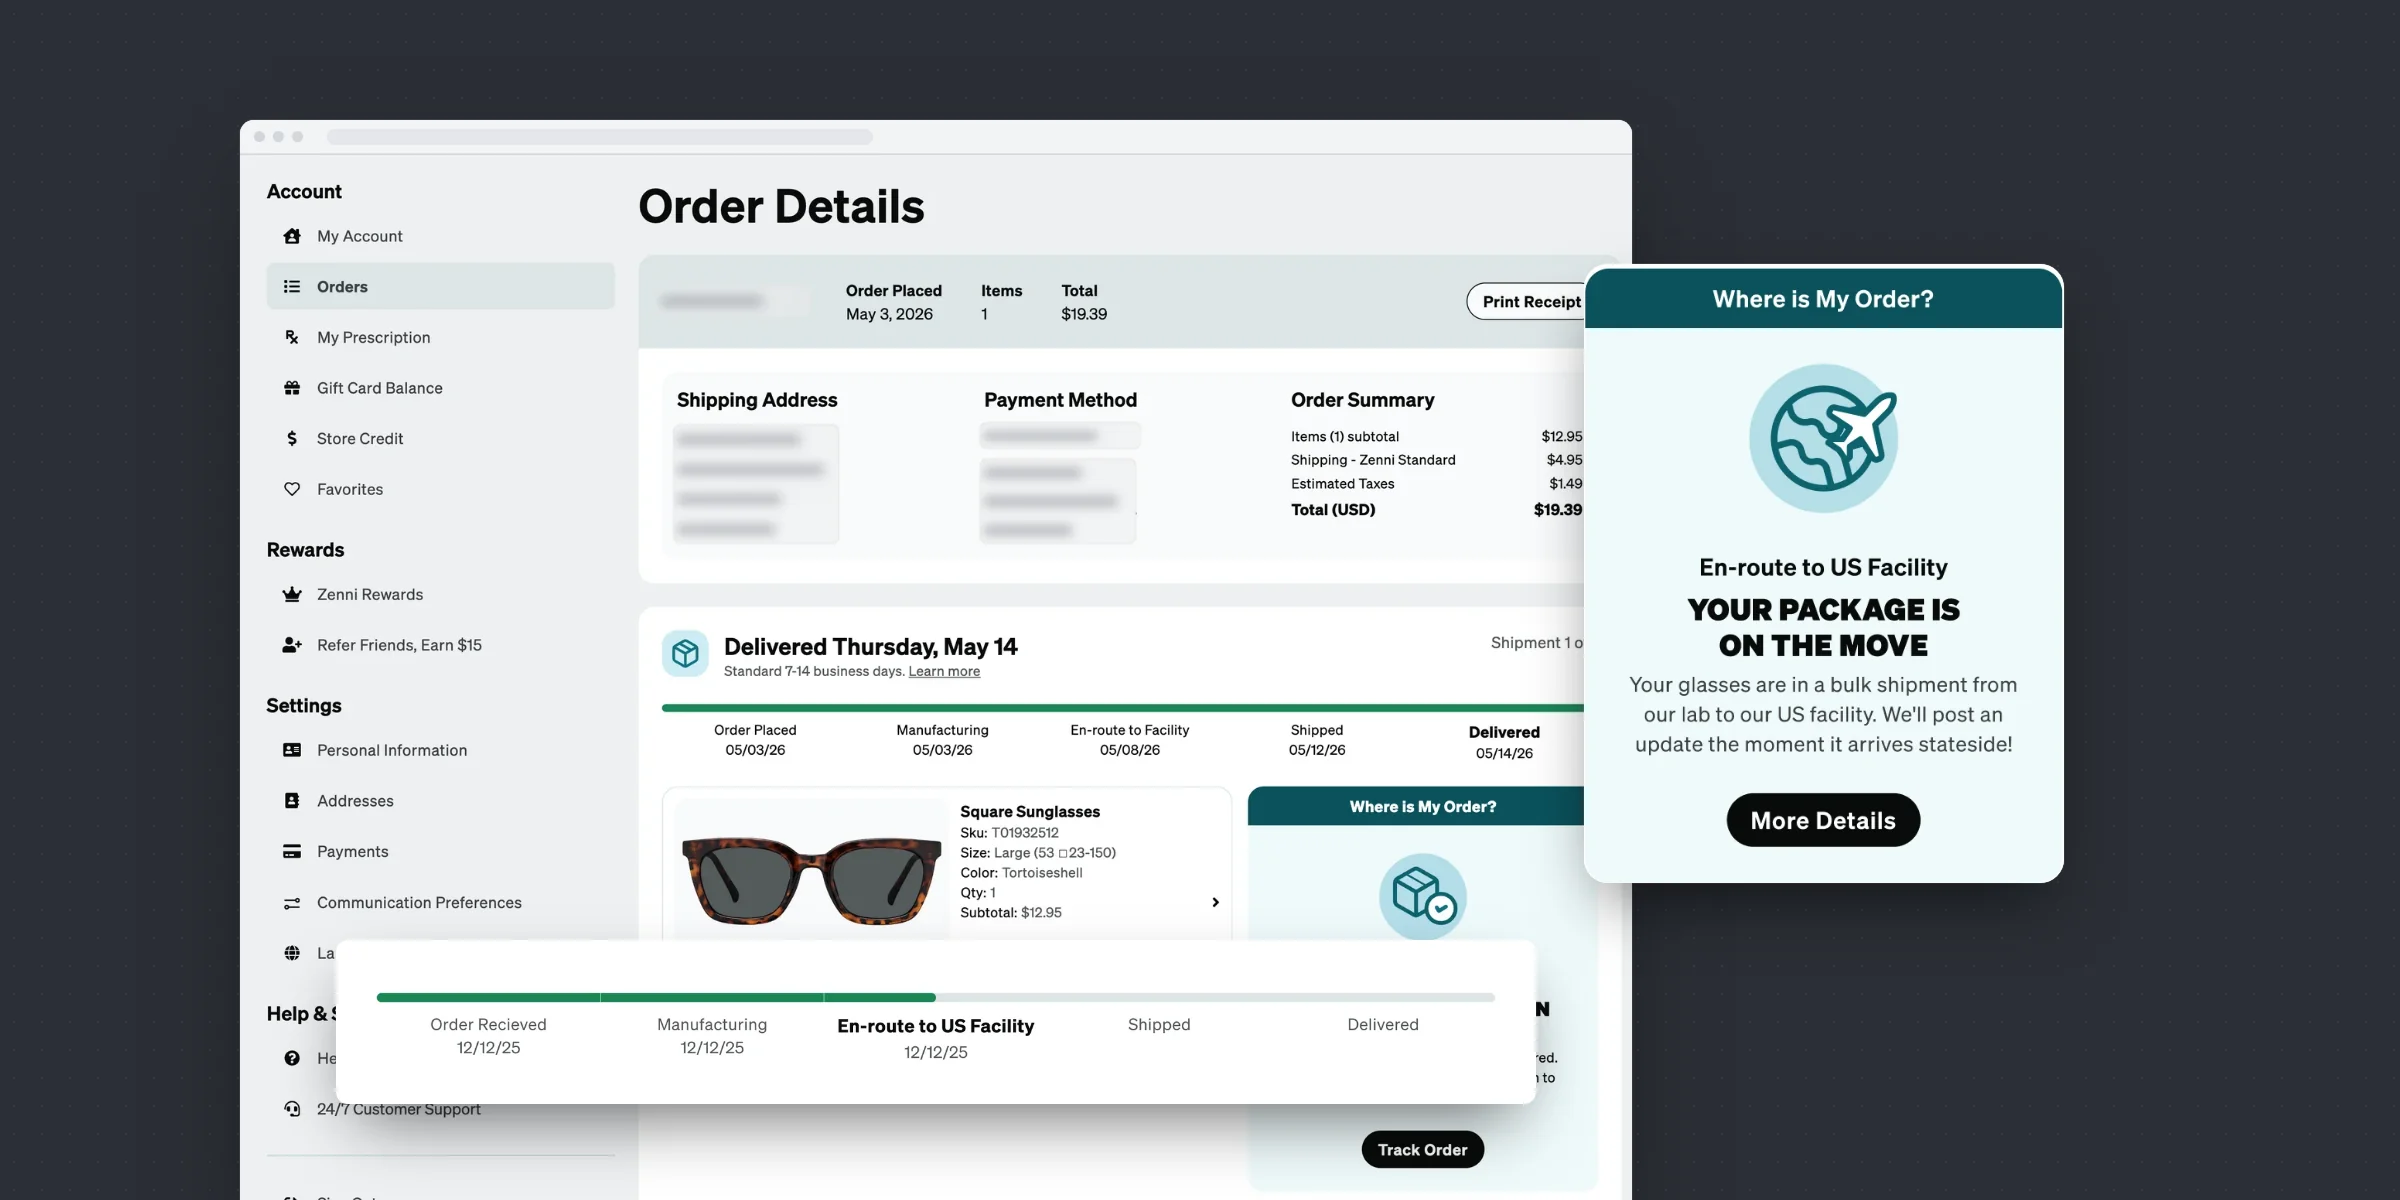
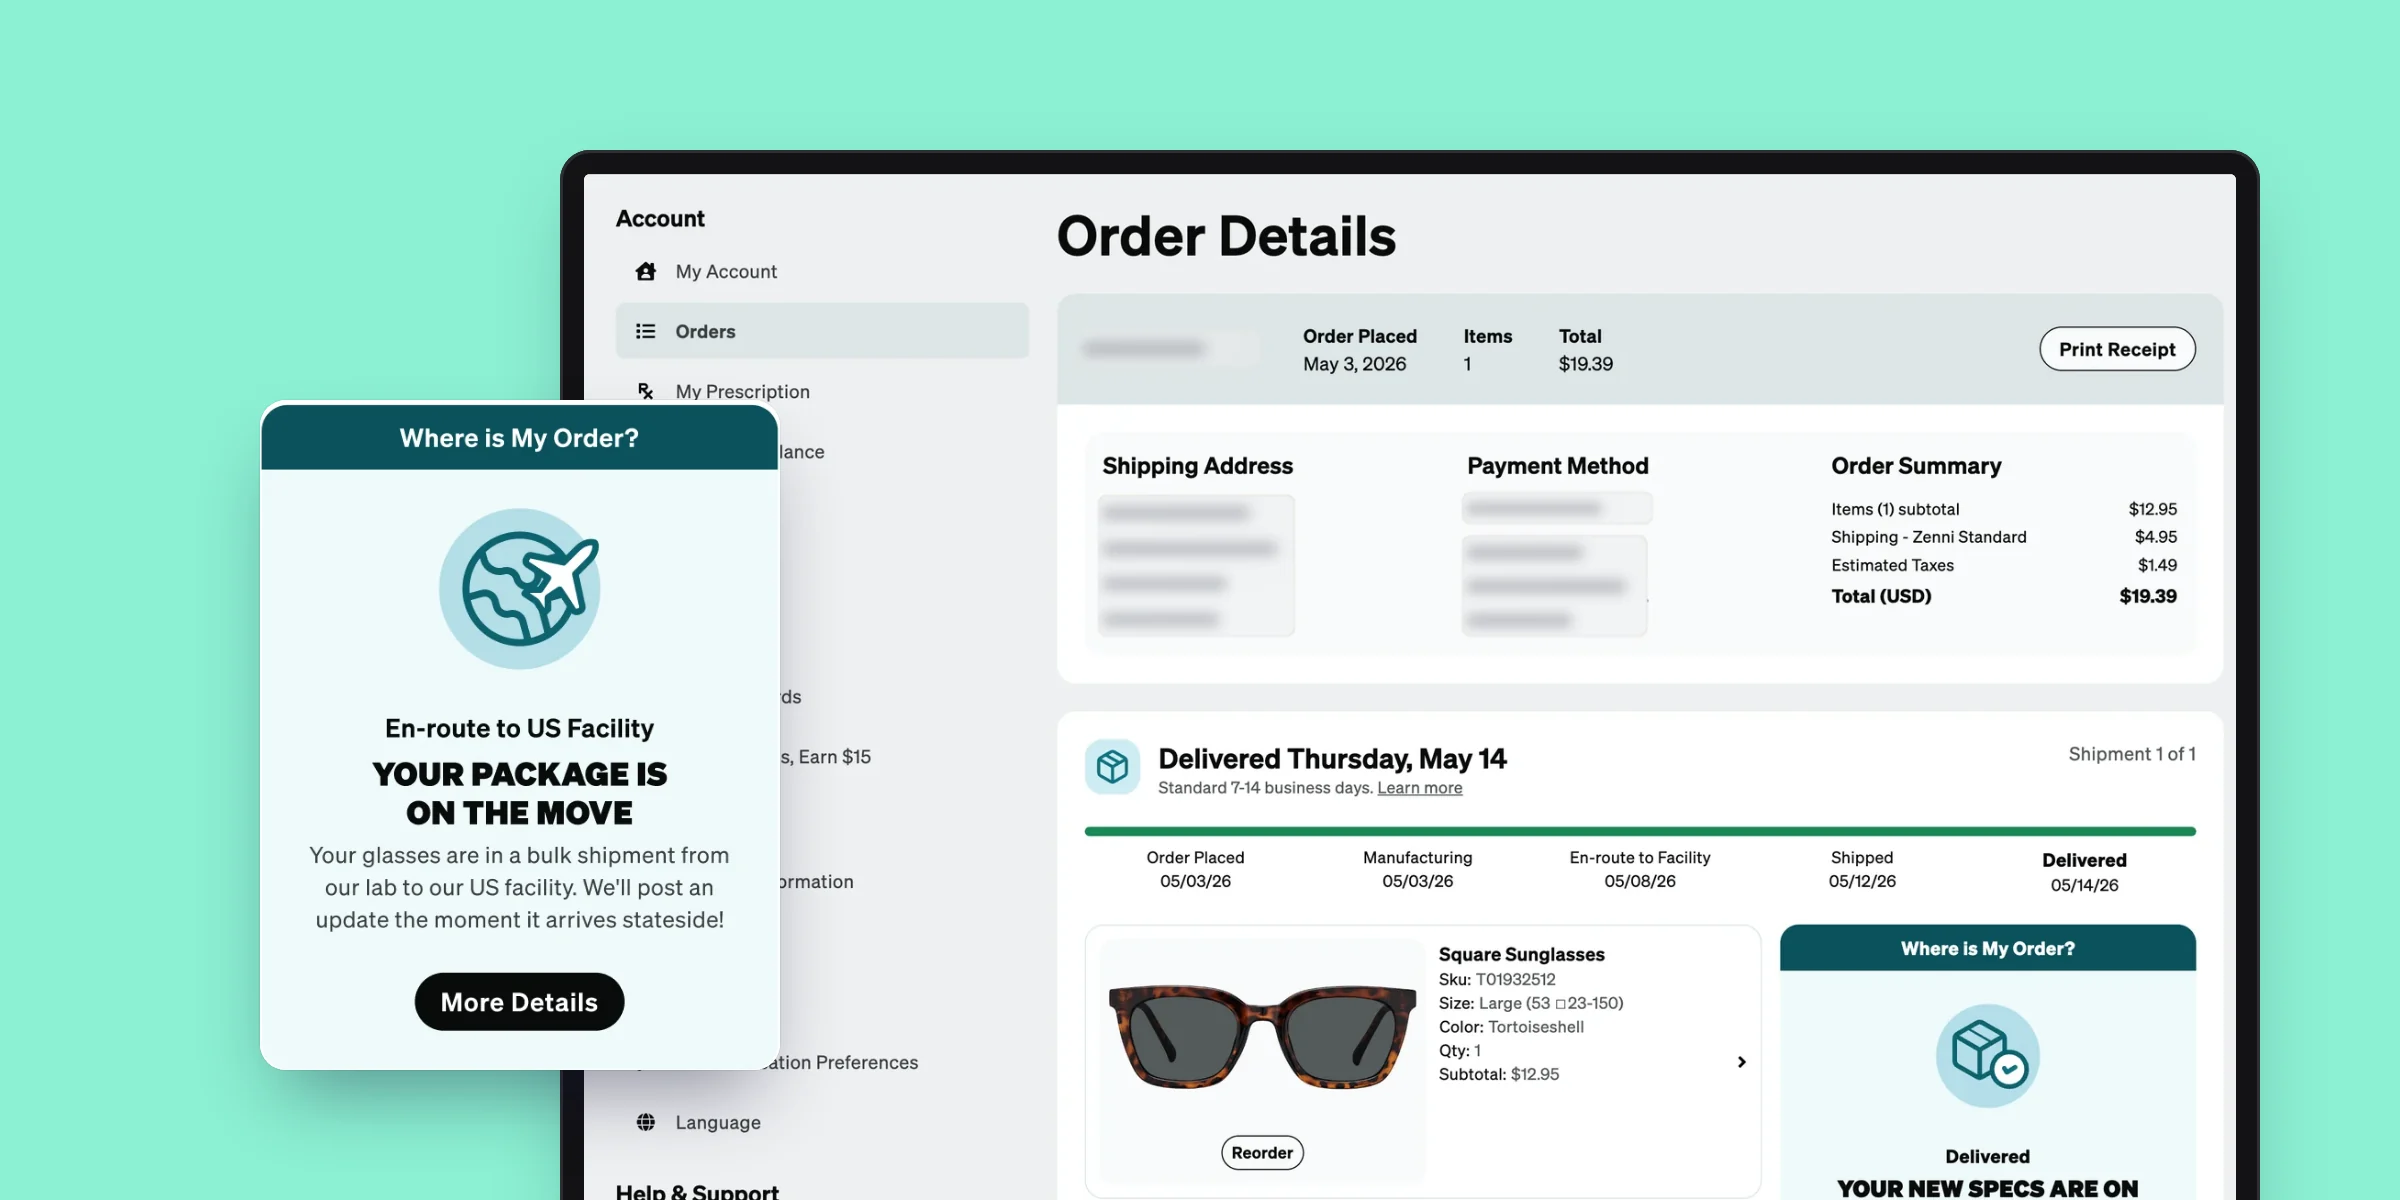
Bright case study cards and mockups; full-width dark footer
Cards are now one bright colour per case study with the title and tags on
top and the mockup bleeding off the bottom and right edges. Covers are
transparent device mockups (black laptop and phone frames); heroes use the
same colour. The footer is a full-width dark gray band.

Claude-Session: https://claude.ai/code/session_01HAnvLrxAh4Wznvy4Cj8Sx4

diff --git a/src/scripts/case-editor.ts b/src/scripts/case-editor.ts
@@ -11,7 +11,7 @@ const DIR = 'src/content/projects';
 const API = 'https://api.github.com';
 const STORE = 'pung-brooks:editor';
 
-const KEYS = ['id', 'number', 'title', 'navLabel', 'company', 'context', 'project', 'domain', 'summary', 'role', 'timeline', 'platform', 'partners', 'accent', 'cover', 'coverAlt', 'hero', 'tags', 'featured', 'order'] as const;
+const KEYS = ['id', 'number', 'title', 'navLabel', 'company', 'context', 'project', 'domain', 'summary', 'role', 'timeline', 'platform', 'partners', 'accent', 'cover', 'coverAlt', 'hero', 'coverColor', 'tags', 'featured', 'order'] as const;
 type Value = string | number | boolean | string[];
 type Data = Record<string, Value>;
 type Item = { path: string; sha: string; data: Data; body: string };
@@ -218,6 +218,7 @@ async function save(e: SubmitEvent) {
     cover: current?.data.cover,
     coverAlt: current?.data.coverAlt,
     hero: current?.data.hero,
+    coverColor: current?.data.coverColor,
     tags: current?.data.tags,
     featured: field('featured')!.checked,
     order,

diff --git a/src/content.config.ts b/src/content.config.ts
@@ -40,6 +40,7 @@ const projects = defineCollection({
     cover: z.string().optional(), // card image on the homepage, e.g. /images/work/<id>/cover.png; a placeholder shows until it is set
     coverAlt: z.string().optional(), // also the alt text for hero
     hero: z.string().optional(), // wide mockup image at the top of the case page
+    coverColor: z.string().optional(), // bright card colour behind the cover mockup, e.g. #c9c1fb; matches the hero image background
     tags: z.array(z.string()).optional(), // card tags on the homepage; without them the card shows the role and first two platforms
     featured: z.boolean().default(true), // false hides the case study from the site (the editor's "Show on site")
     order: z.number(),

diff --git a/src/content/projects/01-amazon-relay.md b/src/content/projects/01-amazon-relay.md
@@ -15,7 +15,8 @@ partners: [Senior Software Engineer, Product Manager, UX Research]
 accent: relay
 cover: /images/work/amazon-relay/cover.webp
 hero: /images/work/amazon-relay/hero.webp
-coverAlt: Three Relay for Drivers screens in phone mockups, showing the redesigned home screen at the yard, the in-transit view and the tasks concept
+coverAlt: Three Relay for Drivers screens in phone frames on lavender, showing the redesigned home screen at the yard, the in-transit view and the tasks concept
+coverColor: "#c9c1fb"
 order: 1
 ---
 

diff --git a/src/content/projects/03-zenni-order-tracking.md b/src/content/projects/03-zenni-order-tracking.md
@@ -15,7 +15,8 @@ partners: [Product, Engineering, Content Design, Analytics, Customer Service]
 accent: tracking
 cover: /images/work/zenni-order-tracking/cover.webp
 hero: /images/work/zenni-order-tracking/hero.webp
-coverAlt: The shipped Zenni Order Details page in a browser window, with the Where is My Order card and the five-step milestone tracker floating beside it
+coverAlt: The shipped Zenni Order Details page in a laptop frame on mint, with the Where is My Order card floating beside it
+coverColor: "#8cf0d3"
 order: 3
 ---
 

diff --git a/src/content/projects/04-zenni-working-docs.md b/src/content/projects/04-zenni-working-docs.md
@@ -16,7 +16,8 @@ accent: yellow
 tags: [Design Operations, Cross-functional Collaboration, Decision-Making & Alignment]
 cover: /images/work/zenni-working-docs/cover.webp
 hero: /images/work/zenni-working-docs/hero.webp
-coverAlt: Two Zenni Slack canvases in browser windows, a UX working doc with its tenets in front of the Knowledge Sharing Mechanism workshop doc and its tracker
+coverAlt: A Zenni UX working doc for enhanced order tracking, shown as a Slack canvas in a laptop frame on peach
+coverColor: "#ffd4a8"
 order: 4
 ---
 

diff --git a/src/content/projects/02-zenni-account.md b/src/content/projects/02-zenni-account.md
@@ -15,7 +15,8 @@ partners: [Product Manager, UX Manager, Engineering, Design System]
 accent: account
 cover: /images/work/zenni-account/cover.webp
 hero: /images/work/zenni-account/hero.webp
-coverAlt: The redesigned Zenni My Account dashboard in a browser window, in front of the new Order Details page
+coverAlt: The redesigned Zenni My Account dashboard in a laptop frame on lime green
+coverColor: "#dcf774"
 order: 2
 ---
 

diff --git a/src/content/projects/01-amazon-relay-load-board.md b/src/content/projects/01-amazon-relay-load-board.md
@@ -15,7 +15,8 @@ partners: [Product Manager, Engineering, Design System]
 accent: tracking
 cover: /images/work/amazon-relay-load-board/cover.webp
 hero: /images/work/amazon-relay-load-board/hero.webp
-coverAlt: The Relay Load Board before and after the redesign, shown as two overlapping browser windows
+coverAlt: The redesigned Relay Load Board in a laptop frame on light blue
+coverColor: "#a6eff3"
 order: 1
 ---
 

diff --git a/src/content/projects/05-spokgo.md b/src/content/projects/05-spokgo.md
@@ -14,6 +14,7 @@ platform: ["[To confirm]"]
 partners: ["[To confirm]"]
 accent: spokgo
 featured: false
+coverColor: "#fbe97c"
 order: 5
 ---
 
